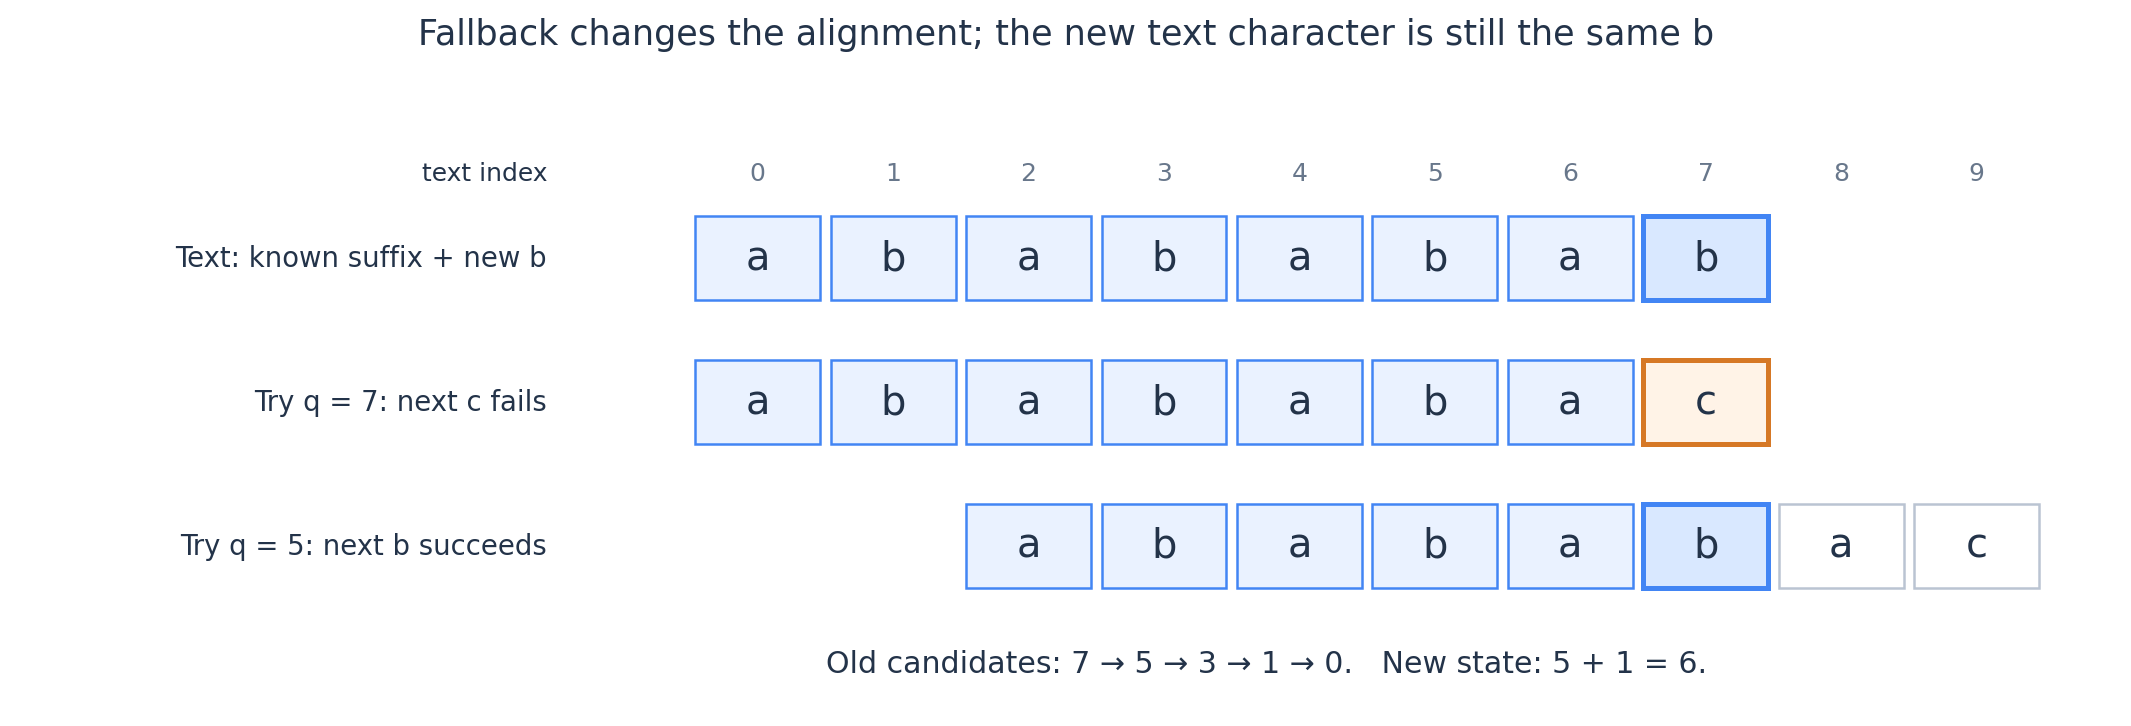
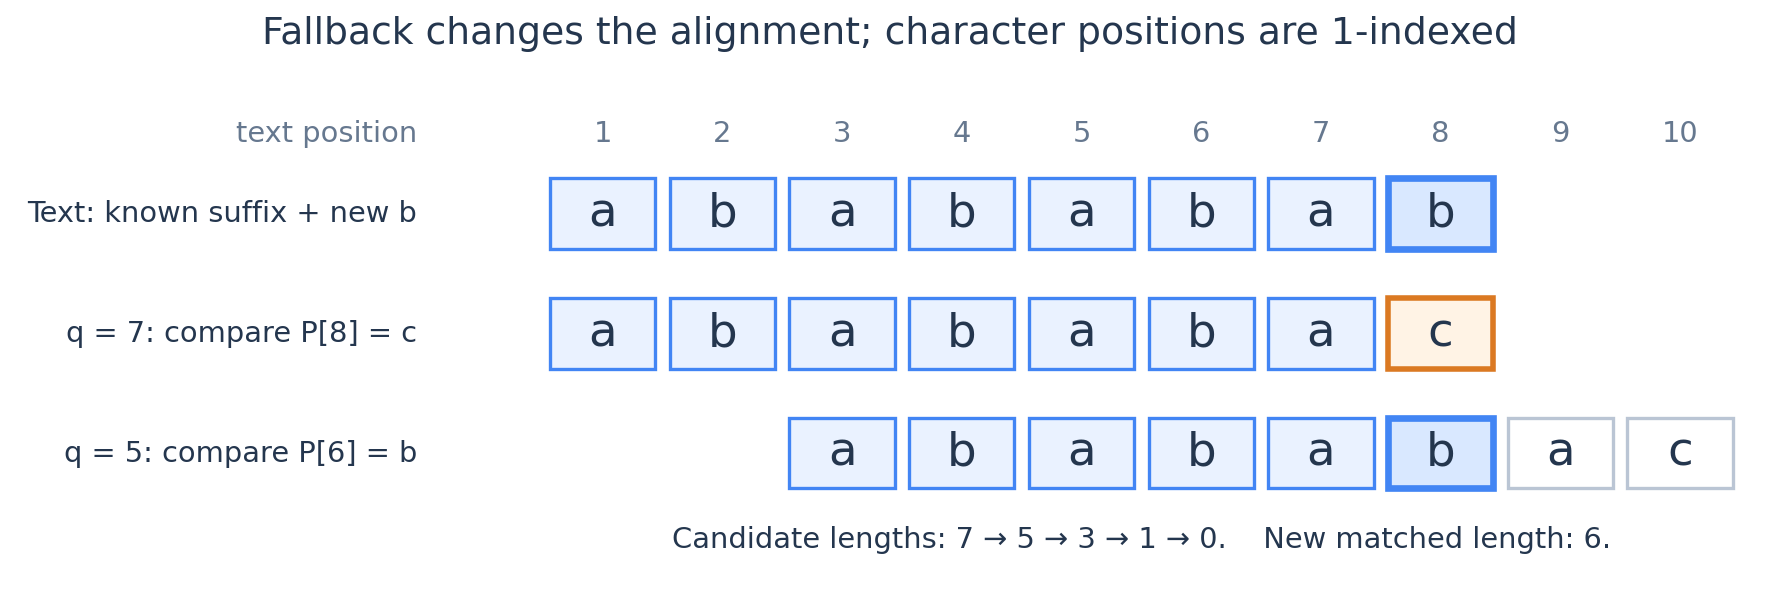
Use 1-indexed characters throughout KMP and Border notes

diff --git a/string/kmp-and-border-theory/kmp-and-border-theory.md b/string/kmp-and-border-theory/kmp-and-border-theory.md
@@ -6,13 +6,15 @@
 
 动物园放在失配树的查询应用之后。它用到的性质会先讲清楚，不需要靠这道题来组织整篇内容。
 
-统一使用从 $0$ 开始的字符下标，以及左闭右开的区间。记
+全文统一使用 **1-index 字符下标与闭区间**：字符串写成 $S[1..n]$，子串 $S[l..r]$ 的长度为 $r-l+1$。记
 
 $$
-S_i=S[0:i),\qquad f[i]=S_i\text{ 的最长真 Border 的长度}.
+S_i=S[1..i],\qquad f[i]=S_i\text{ 的最长真 Border 的长度}.
 $$
 
-一个长度为 $b$ 的非空真 Border 满足 $0<b<i$ 且 $S[0:b)=S[i-b:i)$。前后两次出现**允许重叠**。另外把长度 $0$ 的空串作为辅助候选，规定 $f[0]=f[1]=0$。文中的节点编号和 KMP 状态均表示**长度**；若使用常见的字符下标版前缀函数 $\pi$，两者关系是 $f[i]=\pi[i-1]$。
+一个长度为 $b$ 的非空真 Border 满足 $0<b<i$ 且 $S[1..b]=S[i-b+1..i]$。前后两次出现**允许重叠**。另外把长度 $0$ 的空串作为辅助候选，记 $S_0=S[1..0]$ 为空串，规定 $f[0]=f[1]=0$。这里约定 $S[1..0]$ 表示空前缀，并不会访问字符 $S[0]$。
+
+文中的失配树节点和匹配状态表示**前缀长度**。字符从 $1$ 编号后，长度为 $i$ 的前缀恰好结束于位置 $i$，两者可以直接对应；节点 $0$ 仍表示空前缀。实现时可在字符串前补一个占位字符，让实际字符位于 $1,\ldots,n$，占位字符不参与匹配。你提供的实现将前缀函数命名为 `p`，其中 `p[i]` 就是本文的 $f[i]$。
 
 ## 1. 最长 Border 保存了全部 Border，而不只是一个最优值
 
@@ -23,7 +25,7 @@ $$
 \iff a\text{ 是 }S_b\text{ 的 Border}.}
 $$
 
-理由是 $S_i$ 的最后 $b$ 个字符就是 $S_b$。因此，$S_i$ 的最后 $a$ 个字符，恰好等于 $S_b$ 的最后 $a$ 个字符。两边拿来比较的前缀又都是 $S[0:a)$，所以两个判断完全相同。
+理由是 $S_i$ 的最后 $b$ 个字符就是 $S_b$。因此，$S_i$ 的最后 $a$ 个字符，恰好等于 $S_b$ 的最后 $a$ 个字符。两边拿来比较的前缀又都是 $S[1..a]$，所以两个判断完全相同。
 
 这个等价关系同时回答了两个问题：
 
@@ -50,19 +52,19 @@ $$
 
 ## 2. KMP 维护的其实是一整组候选，只是用最大值代表它
 
-现在固定一个非空模式串 $P$，长度为 $m$，在文本 $T$ 上从左到右扫描。读完 $T[0:i)$ 后，定义
+现在固定一个非空模式串 $P[1..m]$，在文本 $T$ 上从左到右扫描。读完前 $i$ 个字符 $T[1..i]$ 后，定义
 
 $$
-q_i=\max\{\ell\in[0,m]:P[0:\ell)\text{ 是 }T[0:i)\text{ 的后缀}\}.
+q_i=\max\{\ell\in[0,m]:P[1..\ell]\text{ 是 }T[1..i]\text{ 的后缀}\}.
 $$
 
-这里允许 $q_i=m$，表示刚刚出现一次完整匹配。问题是：只存最长的 $q_i$，为什么不会忘记其他有用的后缀？
+其中 $q_0=0$，允许 $q_i=m$，表示刚刚出现一次完整匹配。问题是：只存最长的 $q_i$，为什么不会忘记其他有用的后缀？
 
-设当前最长长度为 $q$。对于 $0\le\ell<q$，因为文本的最后 $q$ 个字符就是 $P[0:q)$，所以
+设当前最长长度为 $q$。对于 $0\le\ell<q$，因为文本的最后 $q$ 个字符就是 $P[1..q]$，所以
 
 $$
-P[0:\ell)\text{ 是当前文本的后缀}
-\iff \ell\text{ 是 }P[0:q)\text{ 的 Border}.
+P[1..\ell]\text{ 是当前文本的后缀}
+\iff \ell\text{ 是 }P[1..q]\text{ 的 Border}.
 $$
 
 结合上一节，当前所有合法长度恰好是
@@ -75,11 +77,11 @@ $$
 
 ### 来了一个字符以后，为什么只需沿这条链找？
 
-设新字符为 $c$。若新状态为 $k>0$，去掉最后的 $c$ 后，$P[0:k-1)$ 必须是旧文本的后缀。因此，$k-1$ 必须在旧候选链上。
+设新字符为 $c$。若新状态为 $k>0$，去掉最后的 $c$ 后，$P[1..k-1]$ 必须是旧文本的后缀。因此，$k-1$ 必须在旧候选链上。
 
-反过来，旧链上的候选 $j$ 若满足 $j<m$ 且 $P[j]=c$，就能延伸成新候选 $j+1$。两边合起来说明：**新候选与旧候选中能够接上 $c$ 的部分一一对应。**
+反过来，旧链上的候选 $j$ 若满足 $j<m$ 且 $P[j+1]=c$，就能延伸成新候选 $j+1$。两边合起来说明：**新候选与旧候选中能够接上 $c$ 的部分一一对应。**
 
-链从大到小排列，所以找到第一个能够延伸的长度，就找到了最长的新候选。若当前 $P[q]\ne c$，排除的仅仅是候选 $q$；下一个需要尝试的就是 $f[q]$，而不是重新读取文本。
+链从大到小排列，所以找到第一个能够延伸的长度，就找到了最长的新候选。若当前 $q<m$ 且 $P[q+1]\ne c$，排除的仅仅是候选 $q$；下一个需要尝试的就是 $f[q]$，而不是重新读取文本。若 $q=m$，则不能再延伸，也先退到 $f[m]$，下一节会统一写出这种转移。
 
 ![失配时保留已经匹配部分的后缀](../../asset/kmp-fallback-candidates.png)
 
@@ -87,9 +89,9 @@ $$
 
 ### 为什么计算 $f$ 也用同一套过程？
 
-计算 $f[i]$ 时，旧串是 $P[0:i-1)$，但必须排除整个旧串作为候选，否则再接一个字符会得到长度 $i$，把新串自己当成真 Border。
+计算 $f[i]$ 时，旧串是 $P[1..i-1]$，但必须排除整个旧串作为候选，否则再接一个字符会得到长度 $i$，把新串自己当成真 Border。
 
-因此对 $i\ge2$，从旧串的最长真 Border $f[i-1]$ 出发，沿候选链尝试接上 $P[i-1]$。任何新真 Border 去掉最后一个字符后，都落在这条链中，所以仍然不漏候选。$f[1]=0$ 单独作为初值。
+因此对 $i\ge2$，从旧串的最长真 Border $f[i-1]$ 出发，沿候选链尝试接上 $P[i]$。当前候选长为 $j$ 时，比较 $P[i]$ 与 $P[j+1]$；失配就令 $j\gets f[j]$，匹配成功则长度加一。任何新真 Border 去掉最后一个字符后，都落在这条链中，所以仍然不漏候选。$f[1]=0$ 单独作为初值。
 
 这也解释了两种操作的联系：模式匹配是在另一条文本上运行这套状态变化；求前缀函数，则是在模式串自己身上运行，并额外排除“整个前缀匹配自己”。
 
@@ -106,17 +108,19 @@ $$
 $$
 \delta(q,c)=
 \begin{cases}
-q+1,&q<m\text{ 且 }P[q]=c,\\
-0,&q=0\text{ 且 }P[0]\ne c,\\
+q+1,&q<m\text{ 且 }P[q+1]=c,\\
+0,&q=0\text{ 且 }P[1]\ne c,\\
 \delta(f[q],c),&\text{其他情况}.
 \end{cases}
 $$
 
-最后一行也包含 $q=m$：模式串后面没有 $P[m]$ 可读，先退到真 Border，再尝试同一个新字符。**走失配链接不消耗字符，走完整的 $\delta$ 转移才消耗一个字符。**
+最后一行也包含 $q=m$：模式串后面没有 $P[m+1]$ 可读，先退到真 Border，再尝试同一个新字符。**走失配链接不消耗字符，走完整的 $\delta$ 转移才消耗一个字符。**
 
 例如 $P=\texttt{aba}$、$T=\texttt{ababa}$，读完第三个字符到达状态 $3$，记录一次匹配。下一字符 $\texttt{b}$ 到来后，从 $f[3]=1$ 尝试延伸，得到状态 $2$；再读 $\texttt{a}$，又到达状态 $3$。若匹配后直接清零，就会漏掉这次重叠出现。
 
 实现时可以保留状态 $m$，在下一次转移前回退；也可以记录匹配后立即退到 $f[m]$。两种写法都可以，但后者保存的是为后续扫描准备的状态，不能再把它当成“当前文本的最长匹配长度”用于统计。尤其在第 5 节的做法中，应先记录完整状态，再处理回退。
+
+你给的实现采用后一种处理，并让匹配循环中的 `j` 表示**下一次比较的模式位置**。因此它与本文的已匹配长度 $q$ 相差一：$j=q+1$。初始 `j=1` 对应尚未匹配字符；失配时更新为 $j\gets f[j-1]+1$；完整匹配时 `j=m+1`，此时应先记录一次出现，再退到 $f[m]+1$。若本次结束于文本位置 $i$，匹配起点就是 $i-m+1$。这套位置写法与长度状态完全等价，失配树仍然使用长度 $0,1,\ldots,m$ 编号。
 
 ### 为什么自动机状态足以接 DP？
 
@@ -142,7 +146,7 @@ $$
 
 为固定字符串 $S$ 建立节点 $0,1,\ldots,n$，每个 $i>0$ 的父亲是 $f[i]$，根为 $0$。因为父亲编号严格小于儿子，所有点最终都会到达 $0$，这些边组成一棵树，称为失配树。
 
-树中节点 $i$ 表示固定前缀 $S_i$，不是字符 $S[i]$，也不是任意一个长度为 $i$ 的子串。
+树中节点 $i$ 表示固定前缀 $S[1..i]$，不是单个字符 $S[i]$，也不是任意一个长度为 $i$ 的子串。改用 1-index 字符下标只让这个前缀的末位置也等于 $i$，并没有改变任何父子关系。
 
 根据第 1 节，对 $0<u<v$，有
 
@@ -188,7 +192,7 @@ $$
 
 有的 $\mathrm{next}$ 存最长 Border，有的存下一次比较的字符位置，有的使用 $-1$ 哨兵，还有的已经做过 nextval 优化。名字相同，语义却可能不同。
 
-例如当前状态 $q$ 的下一字符已经与 $P[q]$ 失配，而某个较短候选 $j$ 满足 $P[j]=P[q]$，那么它面对同一个新字符必然也失败。nextval 可以利用这次失配的信息，跳过这种比较。
+例如当前状态 $q<m$ 的下一字符已经与 $P[q+1]$ 失配，而某个较短候选 $j$ 满足 $P[j+1]=P[q+1]$，那么它面对同一个新字符必然也失败。nextval 可以利用这次失配的信息，跳过这种比较。
 
 但被跳过的 $j$ 仍然可能是一个真实 Border。**为了这次字符匹配而安全跳过，不等于它可以从 Border 的计数结构中删除。** 建失配树、数 Border、做祖先查询时，父亲必须使用定义清楚的最长真 Border $f$，不能直接替换成加速比较后的链接。
 
@@ -196,7 +200,7 @@ $$
 
 先在 $S$ 自己里面数固定前缀 $S_u$ 的出现次数，允许出现位置重叠，且 $u>0$。
 
-以位置 $i-1$ 结尾的一次出现，等价于 $S_u$ 是 $S_i$ 的后缀，也就等价于节点 $i$ 在失配树的 $u$ 子树里。因此
+以位置 $i$ 结尾的一次出现，等价于 $S_u$ 是 $S_i$ 的后缀，也就等价于节点 $i$ 在失配树的 $u$ 子树里。因此
 
 $$
 \boxed{S_u\text{ 在 }S\text{ 中的出现次数}
@@ -207,7 +211,7 @@ $$
 
 算法上，先给每个 $i=1,\ldots,n$ 放一个单位贡献，再按 $i=n,n-1,\ldots,1$ 将贡献加到 $f[i]$。因为父亲编号小于儿子，这个顺序会先汇总完整子树再向上交付，不必专门 DFS。总时间、空间均为 $O(n)$。
 
-在上图中，前缀 $\texttt{aba}$ 的节点为 $3$，子树节点为 $3,5,8$，对应三次出现的结束位置 $2,4,7$，恰好三次。
+在上图中，前缀 $\texttt{aba}$ 的节点为 $3$，子树节点为 $3,5,8$，对应三次出现的结束位置也恰好是 $3,5,8$。这正是 1-index 写法的便利：节点编号直接对应出现的结束位置。
 
 若你做过 [CF432 D — Prefixes and Suffixes](https://codeforces.com/problemset/problem/432/D)（估算约 2000；2014），可以用这个解释重新看一次原解。它较经典，这里只作为“祖先链筛选前缀、子树和统计出现”的直接对照，不要求重复刷题。该题还输出整个串的长度，要将节点 $n$ 自己也包括进去。
 
@@ -221,26 +225,26 @@ $$
 
 ### 区间里的出现次数，也可以变成二维计数
 
-假设询问前缀 $P_u$ 在文本区间 $T[L:R)$ 中出现几次。一次出现必须完整包含在区间里，所以它的结束前缀长度 $i$ 应满足
+假设询问前缀 $P_u$ 在文本闭区间 $T[L..R]$ 中出现几次。一次出现必须完整包含在区间里，所以它的结束位置 $i$ 应满足 $i-u+1\ge L$ 且 $i\le R$，即
 
 $$
-L+u\le i\le R.
+L+u-1\le i\le R.
 $$
 
-同时，$q_i$ 应在失配树的 $u$ 子树里。给失配树求 DFS 序，把这个子树表示成区间 $[\operatorname{tin}(u),\operatorname{tout}(u))$，问题便变成
+同时，$q_i$ 应在失配树的 $u$ 子树里。给失配树求从 $1$ 开始的 DFS 序，令 $\operatorname{tin}(u)$ 是进入 $u$ 时的编号，$\operatorname{tout}(u)$ 是其子树内的最大编号。这个子树对应闭区间 $[\operatorname{tin}(u),\operatorname{tout}(u)]$，问题便变成
 
 $$
-i\in[L+u,R],\qquad
-\operatorname{tin}(q_i)\in[\operatorname{tin}(u),\operatorname{tout}(u)).
+i\in[L+u-1,R],\qquad
+\operatorname{tin}(q_i)\in[\operatorname{tin}(u),\operatorname{tout}(u)].
 $$
 
-这是结束位置与树上 DFS 序的二维矩形计数。用离线扫描配合树状数组即可在 $O(m+(|T|+Q)\log(m+1))$ 时间处理 $Q$ 次查询；若 $R-L<u$，直接返回零。查询按结束位置的两个边界挂到扫描位置上即可，不必额外排序。这里重要的是把字符出现转成“某个状态属于某棵子树”，具体二维计数工具可以按题目需要替换。
+这是结束位置与树上 DFS 序的二维矩形计数。用离线扫描配合树状数组即可在 $O(m+(|T|+Q)\log(m+1))$ 时间处理 $Q$ 次查询；若 $R-L+1<u$，直接返回零。结束位置闭区间的计数，用扫描到 $R$ 的累计值减去扫描到 $L+u-2$ 的累计值；扫描边界为 $0$ 时还没有加入任何字符。查询按这两个边界挂到扫描位置上即可，不必额外排序。这里重要的是把字符出现转成“某个状态属于某棵子树”，具体二维计数工具可以按题目需要替换。
 
 > **练习**：[ABC257 G — Prefix Concatenation](https://atcoder.jp/contests/abc257/tasks/abc257_g)（估算约 2400；2022；额外前置：DP 与正确性证明）。它不只问有没有匹配，还要利用各个结束位置的匹配信息完成另一个优化问题。
 
 ## 6. 非重叠 Border：先看成祖先查询，再解释为什么能线性扫
 
-对于长度为 $i$ 的前缀，一个长度为 $b$ 的 Border 对应前缀区间 $[0,b)$ 和后缀区间 $[i-b,i)$。它们不重叠，当且仅当
+对于长度为 $i$ 的前缀，一个长度为 $b>0$ 的 Border 对应前缀区间 $[1,b]$ 和后缀区间 $[i-b+1,i]$。它们不重叠，要求前一段的末位置小于后一段的首位置，即 $b<i-b+1$。由于位置均为整数，这等价于
 
 $$
 \boxed{2b\le i.}
@@ -274,7 +278,7 @@ $$
 
 因此，**任何当前合格的长度 $b$，都只能由上一步已经满足门限的长度 $b-1$ 延伸而来**。上一步因为太长被排除的候选，没有哪个能在只延伸一个字符后，突然变成当前合格的新候选。
 
-上一步全部合格候选，又恰好是 $h_{i-1}$ 的祖先链。所以，可以从 $h_{i-1}$ 出发，按普通 KMP 的方式尝试接上新字符：失配就沿原始 $f$ 回退，能接上则长度加一。随后，若临时得到的长度 $j$ 仍满足 $2j>i$，再沿 $f$ 回退，直到 $2j\le i$。
+上一步全部合格候选，又恰好是 $h_{i-1}$ 的祖先链。所以，可以从 $j=h_{i-1}$ 出发，比较新字符 $S[i]$ 与 $S[j+1]$：失配就沿原始 $f$ 回退，能接上则长度加一。随后，若临时得到的长度 $j$ 仍满足 $2j>i$，再沿 $f$ 回退，直到 $2j\le i$。从 $h_1=0$ 开始，第二遍扫描处理 $i=2,\ldots,n$ 即可。
 
 第一次过程找到的是“上一步合格候选能够延伸出的最长长度”；第二次删掉其中当前仍太长的候选。刚才已经证明，所有真正的当前合格候选都在这个范围里，所以最终得到的正是 $h_i$。
 
@@ -297,7 +301,7 @@ $$
 对长度为 $\ell$ 的非空字符串 $X$，定义正整数 $p\in[1,\ell]$ 是它的周期，当且仅当
 
 $$
-X[j]=X[j+p]\qquad(0\le j<\ell-p).
+X[j]=X[j+p]\qquad(1\le j\le\ell-p).
 $$
 
 这只要求相隔 $p$ 的位置相同，不要求 $p$ 整除长度。$p=\ell$ 总是一个周期，因为没有需要比较的位置。
@@ -305,7 +309,7 @@ $$
 将等式整段写出，就是
 
 $$
-X[0:\ell-p)=X[p:\ell).
+X[1..\ell-p]=X[p+1..\ell].
 $$
 
 因此
@@ -344,7 +348,7 @@ $$
 
 ![长度是否足以连通同一剩余类](../../asset/kmp-fine-wilf.png)
 
-图取 $p=4,q=6,d=2$，门限为 $8$。长度 $7$ 时，$\texttt{abacaba}$ 具有周期 $4,6$，但不具有周期 $2$：奇数下标中的位置 $3$ 仍可独立取 $\texttt{c}$。长度 $8$ 时，图中周期约束将所有偶数位置连在一起，也将所有奇数位置连在一起，因此强制产生周期 $2$。两幅图展示各自长度的约束，不是说给左边的串随意追加一个字符就能保留两个周期。
+图取 $p=4,q=6,d=2$，门限为 $8$。长度 $7$ 时，$\texttt{abacaba}$ 具有周期 $4,6$，但不具有周期 $2$：偶数下标中的位置 $4$ 仍可独立取 $\texttt{c}$。长度 $8$ 时，图中周期约束将所有奇数位置连在一起，也将所有偶数位置连在一起，因此强制产生周期 $2$。两幅图展示各自长度的约束，不是说给长度 $7$ 的串随意追加一个字符就能保留两个周期。
 
 ### 一个沿欧几里得算法推进的证明
 
@@ -353,10 +357,10 @@ $$
 考虑前缀
 
 $$
-Y=X[0:\ell-p).
+Y=X[1..\ell-p].
 $$
 
-它继承周期 $p$。另外它还有周期 $q-p$：对于 $0\le j<\ell-q$，由 $X$ 的两个周期，
+它继承周期 $p$。另外它还有周期 $q-p$：对于 $1\le j\le\ell-q$，由 $X$ 的两个周期，
 
 $$
 X[j]=X[j+q]=X[j+q-p].

diff --git a/AGENTS.md b/AGENTS.md
@@ -5,6 +5,7 @@
 - Whenever exercises are added to an explanatory note, add their complete analyses to the corresponding `<topic>-exercises.md` in the same update. Include optional, advanced, and transfer exercises; check that every assigned problem has an analysis entry or an explicit cross-reference to its complete analysis. Keep exercise links and analysis coverage synchronized when exercises are changed or removed.
 - Write natural, readable Chinese for the learner. Explain how the idea arises, state conditions, and prove the key steps. Do not compress away reasoning or write in an overly literary style.
 - Start from the user's stated knowledge. Default to no complete code and no quizzes.
+- For KMP / Border explanations and related exercise analyses, use 1-indexed characters and closed substring intervals, as requested on 2026-10-26. Prefix-function values remain border lengths; failure-tree node 0 is the empty prefix. When following the user's matching-loop convention, distinguish the next comparison position j from the matched length q = j - 1. Do not convert this topic back to 0-index based on other contestants' preferences.
 - Use the current `icpc-algorithm-explanation` skill and, when choosing practice, the current `icpc-problem-selection` skill when available. Read relevant authoritative primary materials, verify real problem statements, and integrate a few exercises in the matching sections with independently estimated CF difficulties.
 - Use lowercase English topic filenames with hyphens. Put accurate explanatory images in `asset/` and use relative paths. Preserve inherited filenames unless renaming is requested.
 - Before committing, check mathematical boundary cases, any new formulas with small exhaustive examples where practical, local links, and image labels. Do not add verification scripts or temporary files to the notes repository.

diff --git a/readme.md b/readme.md
@@ -19,7 +19,7 @@
 | mathematics | [组合数学](mathematics/combinatorics/combinatorics.md) | [exercise](mathematics/combinatorics/combinatorics-exercises.md) |
 | mathematics | [组合数学 + DP](mathematics/combinatorial-dp/combinatorial-dp.md) | [exercise](mathematics/combinatorial-dp/combinatorial-dp-exercises.md) |
 | mathematics | [线性基与异或空间](mathematics/xor-basis/xor-basis.md) | [exercise](mathematics/xor-basis/xor-basis-exercises.md) |
-| string | [KMP、Border 理论与失配树](string/kmp-and-border-theory/kmp-and-border-theory.md) | [exercise](string/kmp-and-border-theory/kmp-and-border-theory-exercises.md) |
+| string | [KMP、Border 理论与失配树（1-index）](string/kmp-and-border-theory/kmp-and-border-theory.md) | [exercise](string/kmp-and-border-theory/kmp-and-border-theory-exercises.md) |
 | string | [随机数与字符串哈希](string/randomness-and-string-hashing/randomness-and-string-hashing.md) | [exercise](string/randomness-and-string-hashing/randomness-and-string-hashing-exercises.md) |
 
 其他知识点放在 [misc/](misc/readme.md)，目前尚无独立专题。线性基按数学原理归入 mathematics；启发式合并与 DSU on Tree 归入 graph and tree。
